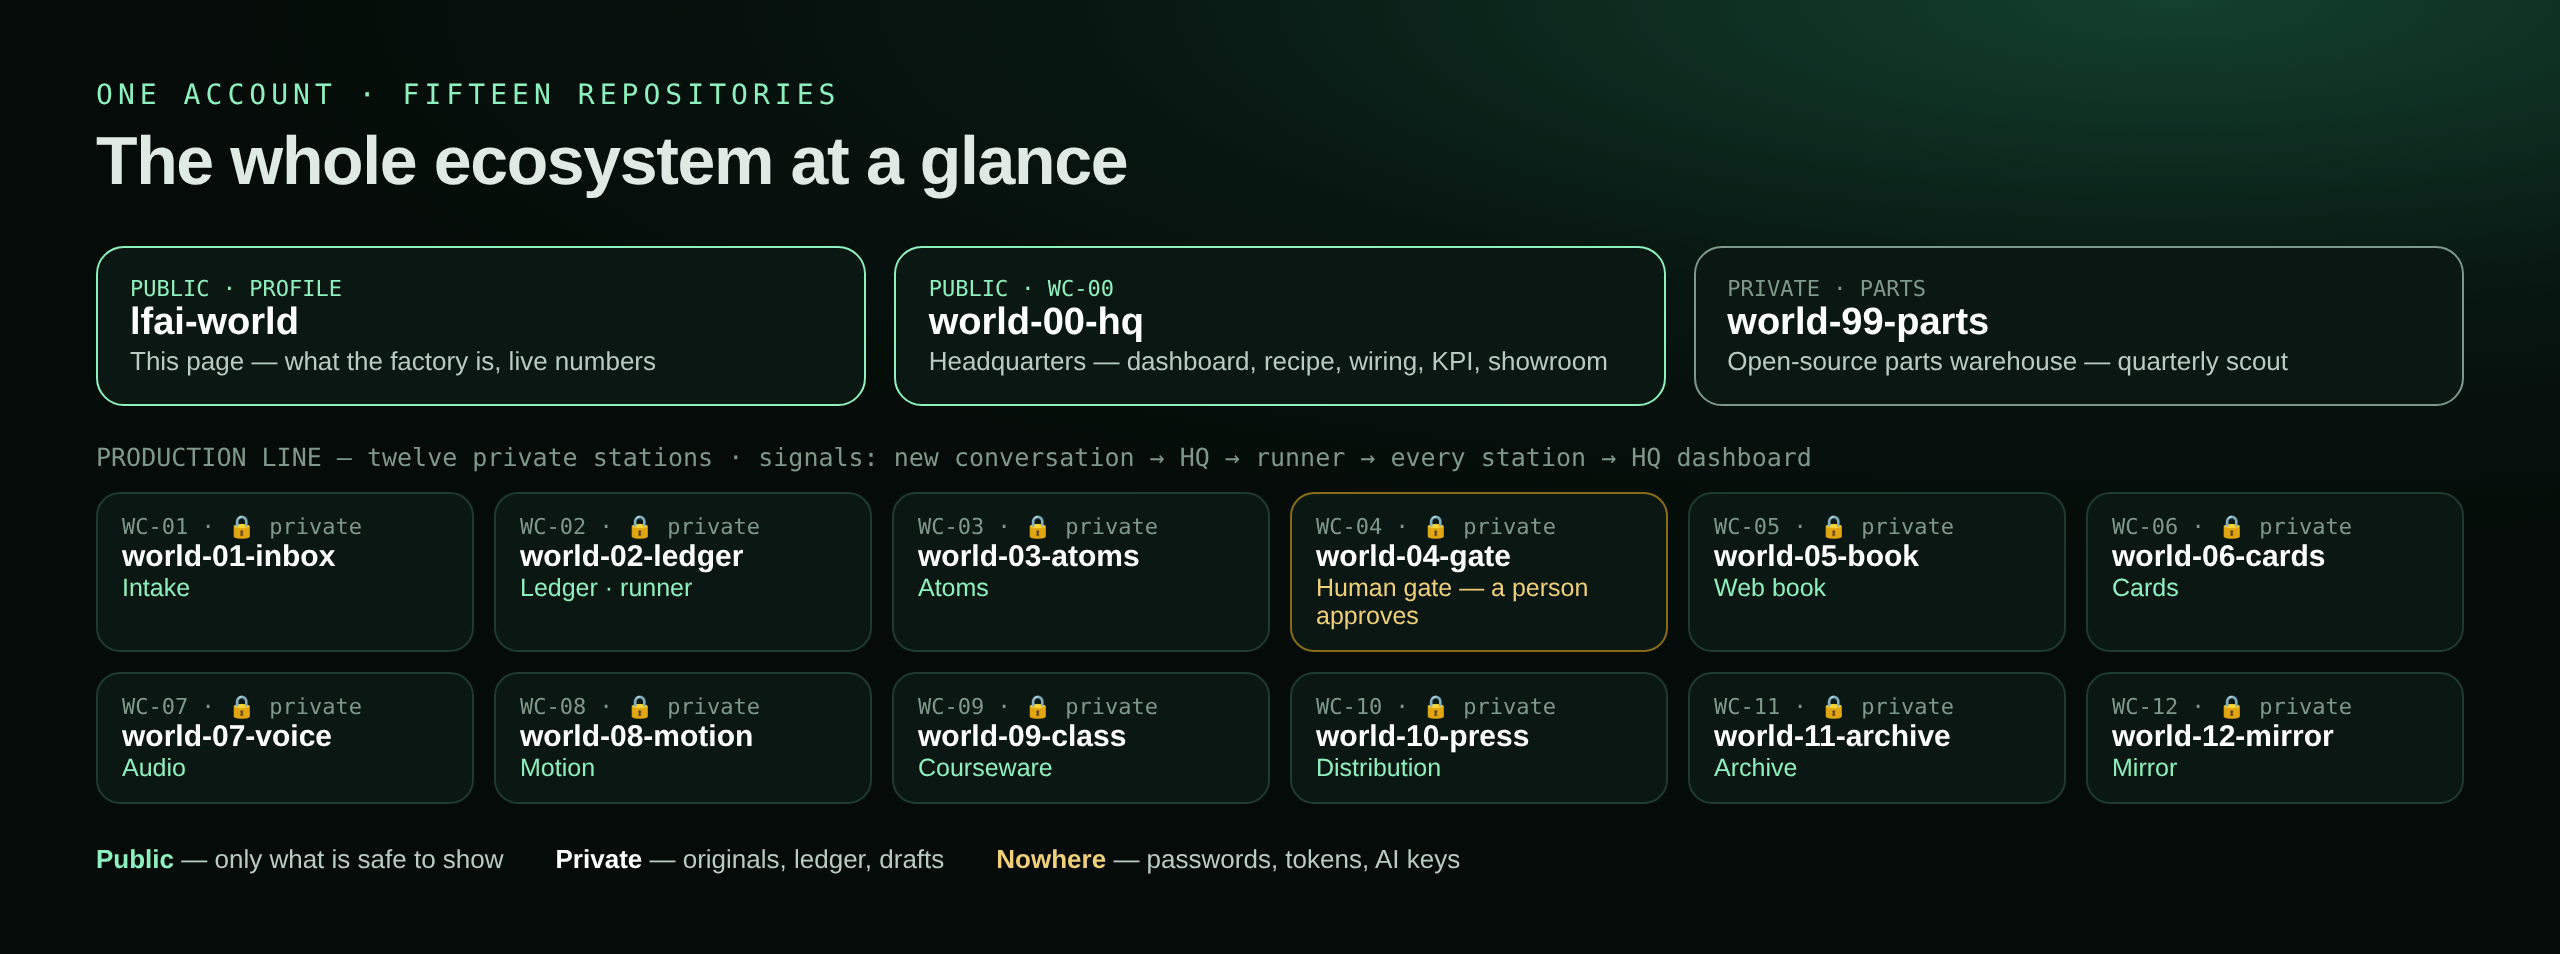
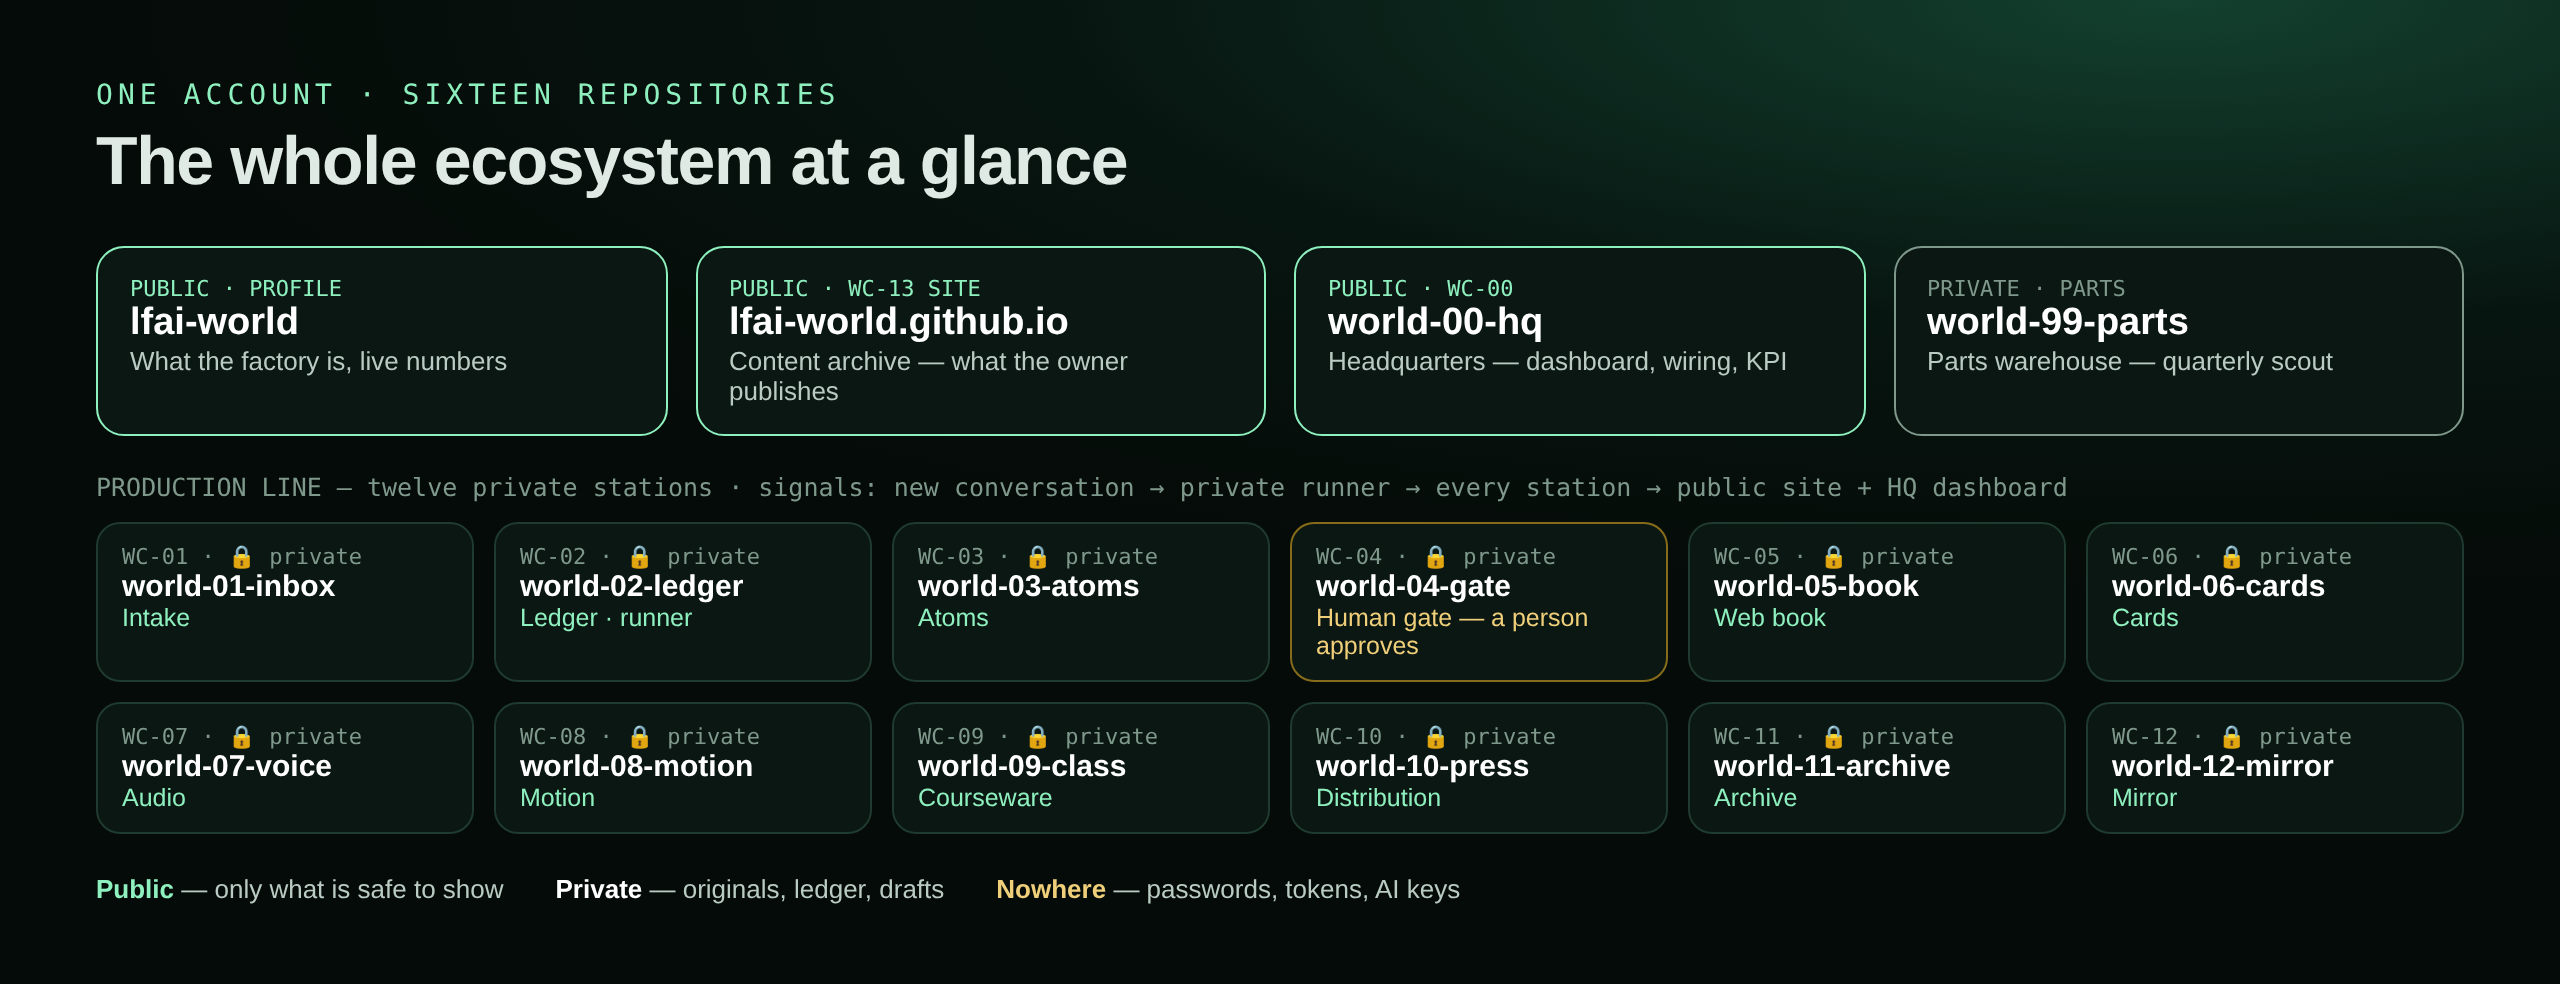
Profile: content archive (WC-13 public site) — ecosystem map, table, links, flow

diff --git a/README.md b/README.md
@@ -2,7 +2,7 @@
 
 <p align="center">
   <a href="https://lfai-world.github.io/world-00-hq/"><img src="assets/btn-dashboard.png" alt="Live dashboard" width="24%"></a>
-  <a href="https://lfai-world.github.io/world-00-hq/#showroom"><img src="assets/btn-showroom.png" alt="Showroom" width="24%"></a>
+  <a href="https://lfai-world.github.io/"><img src="assets/btn-showroom.png" alt="Content archive" width="24%"></a>
   <a href="https://github.com/lfai-world/world-00-hq"><img src="assets/btn-hq.png" alt="Headquarters" width="24%"></a>
   <a href="#how-it-works"><img src="assets/btn-how.png" alt="How it works" width="24%"></a>
 </p>
@@ -25,15 +25,16 @@ People who create knowledge every day — authors, lecturers, researchers, creat
 
 <p align="center"><a href="https://lfai-world.github.io/world-00-hq/assets/demo.mp4"><img src="https://lfai-world.github.io/world-00-hq/assets/demo.gif" alt="Demo: sample web book, one chapter's outputs, the three layers, the lesson, the dashboard and the self-scored QA" width="100%"></a></p>
 
-**What the factory ships, per conversation:** a web-book chapter in three layers · cards (1080×1350) · narration in the owner's voice · a vertical video · a lesson page — all on the **[sample site](https://lfai-world.github.io/world-00-hq/showroom/)**, searchable, with an [RSS feed](https://lfai-world.github.io/world-00-hq/feed.xml).
+**What the factory ships, per conversation:** a web-book chapter in three layers · cards (1080×1350) · narration in the owner's voice · a vertical video · a lesson page — all published to the account's own **[content archive — lfai-world.github.io](https://lfai-world.github.io/)**, searchable, with an [RSS feed](https://lfai-world.github.io/feed.xml).
 
 ## The whole ecosystem at a glance
 
-<p align="center"><img src="assets/ecosystem.png" alt="Fifteen repositories: public profile and headquarters, twelve private stations, a private parts warehouse" width="100%"></p>
+<p align="center"><img src="assets/ecosystem.png" alt="Sixteen repositories: public profile, content archive and headquarters, twelve private stations, a private parts warehouse" width="100%"></p>
 
 | # | Repository | Role | Visibility |
 |---|---|---|---|
 | — | [`lfai-world`](https://github.com/lfai-world/lfai-world) | This profile — what the factory is, live numbers | Public |
+| WC-13 | [`lfai-world.github.io`](https://lfai-world.github.io/) | **Content archive** — the public site where the line publishes every approved chapter and its outputs | Public |
 | WC-00 | [`world-00-hq`](https://github.com/lfai-world/world-00-hq) | Headquarters — dashboard, recipe, wiring, KPI, showroom | Public |
 | WC-01 | `world-01-inbox` | Intake — conversations arrive (share from phone or an Issue form) | Private |
 | WC-02 | `world-02-ledger` | Ledger + cloud runner — de-duplicate, trace every lot | Private |
@@ -84,6 +85,7 @@ flowchart LR
   G["WC-04 gate<br/>a person approves"] -->|world-approve| R
   C(["daily 06:00 cron"]) --> R
   R --> S["WC-01 … WC-12<br/>all twelve stations"]
+  S --> A2["WC-13 public site<br/>content archive"]
   S --> D["HQ dashboard · badges<br/>this profile's live numbers"]
   R --> M[("WC-12 mirror<br/>git bundles · 30 days")]
   X(["quarterly cron"]) --> P["scout agent"] -->|opens PR| Q{"check"} -->|pass → merges itself| W["WC-99 parts"]
@@ -112,7 +114,7 @@ Most people use GitHub as a place to store code. This account uses it as **a zer
 | **Repositories** | Fifteen drawers, numbered in production order; private by default | [ecosystem map](#the-whole-ecosystem-at-a-glance) |
 | **Actions — events** | A new conversation or an approval signals a private runner directly; it runs all twelve stations and refreshes the public pages. The public repositories hold no keys | <a href="#the-line-in-motion"><img src="https://img.shields.io/badge/signals-automated-2fbf7f?style=flat-square&logo=githubactions&logoColor=white" alt="signals"></a> |
 | **Actions — cron** | Daily 06:00 check run · quarterly parts scout (Jan · Apr · Jul · Oct) | <a href="https://github.com/lfai-world/world-99-parts"><img src="https://img.shields.io/badge/schedule-automated-2fbf7f?style=flat-square&logo=githubactions&logoColor=white" alt="schedule"></a> |
-| **Pages + PWA** | The HQ dashboard and every web-book chapter, served free, installable like an app | [dashboard](https://lfai-world.github.io/world-00-hq/) |
+| **Pages + PWA** | The content archive at the account's root address and the HQ dashboard, served free, installable like an app | [archive](https://lfai-world.github.io/) · [dashboard](https://lfai-world.github.io/world-00-hq/) |
 | **Issues as a CMS** | An Issue form in the inbox becomes a conversation file and enters the line — no database | `world-01-inbox` · form “New conversation” |
 | **Agent pull requests** | The scout agent opens a PR, a check validates it, then it merges itself | `world-99-parts` · PRs |
 | **Secrets + variables** | Wiring keys live in the owner's own Actions secrets — never in a file, never with us | repository settings |
